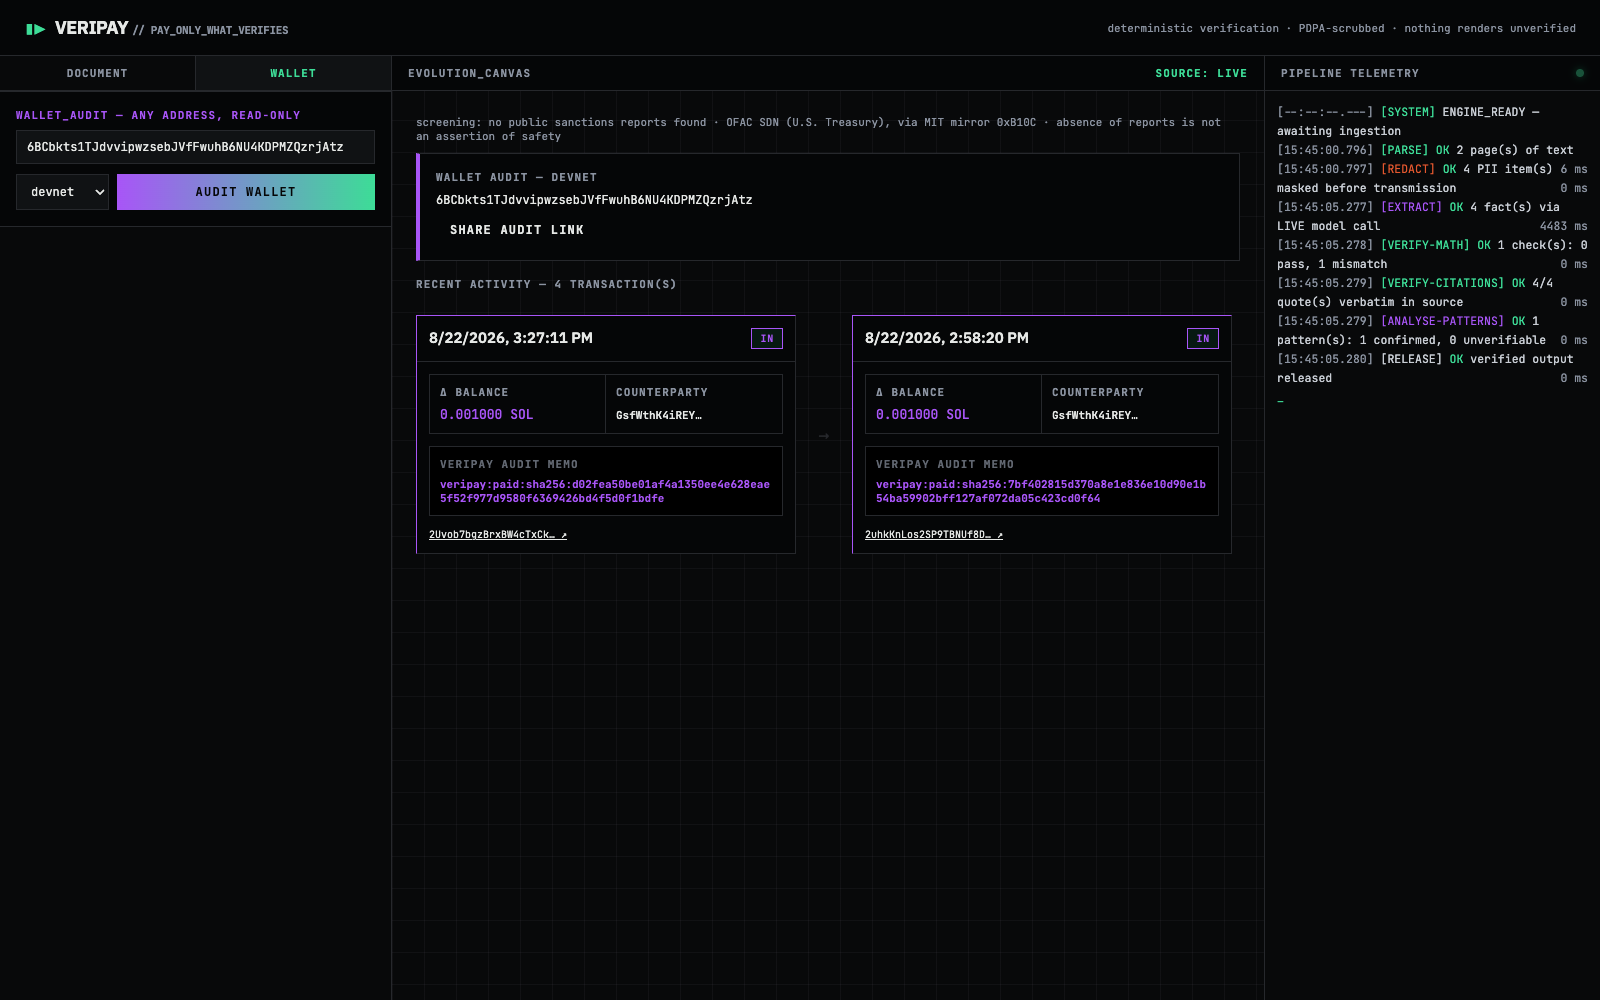
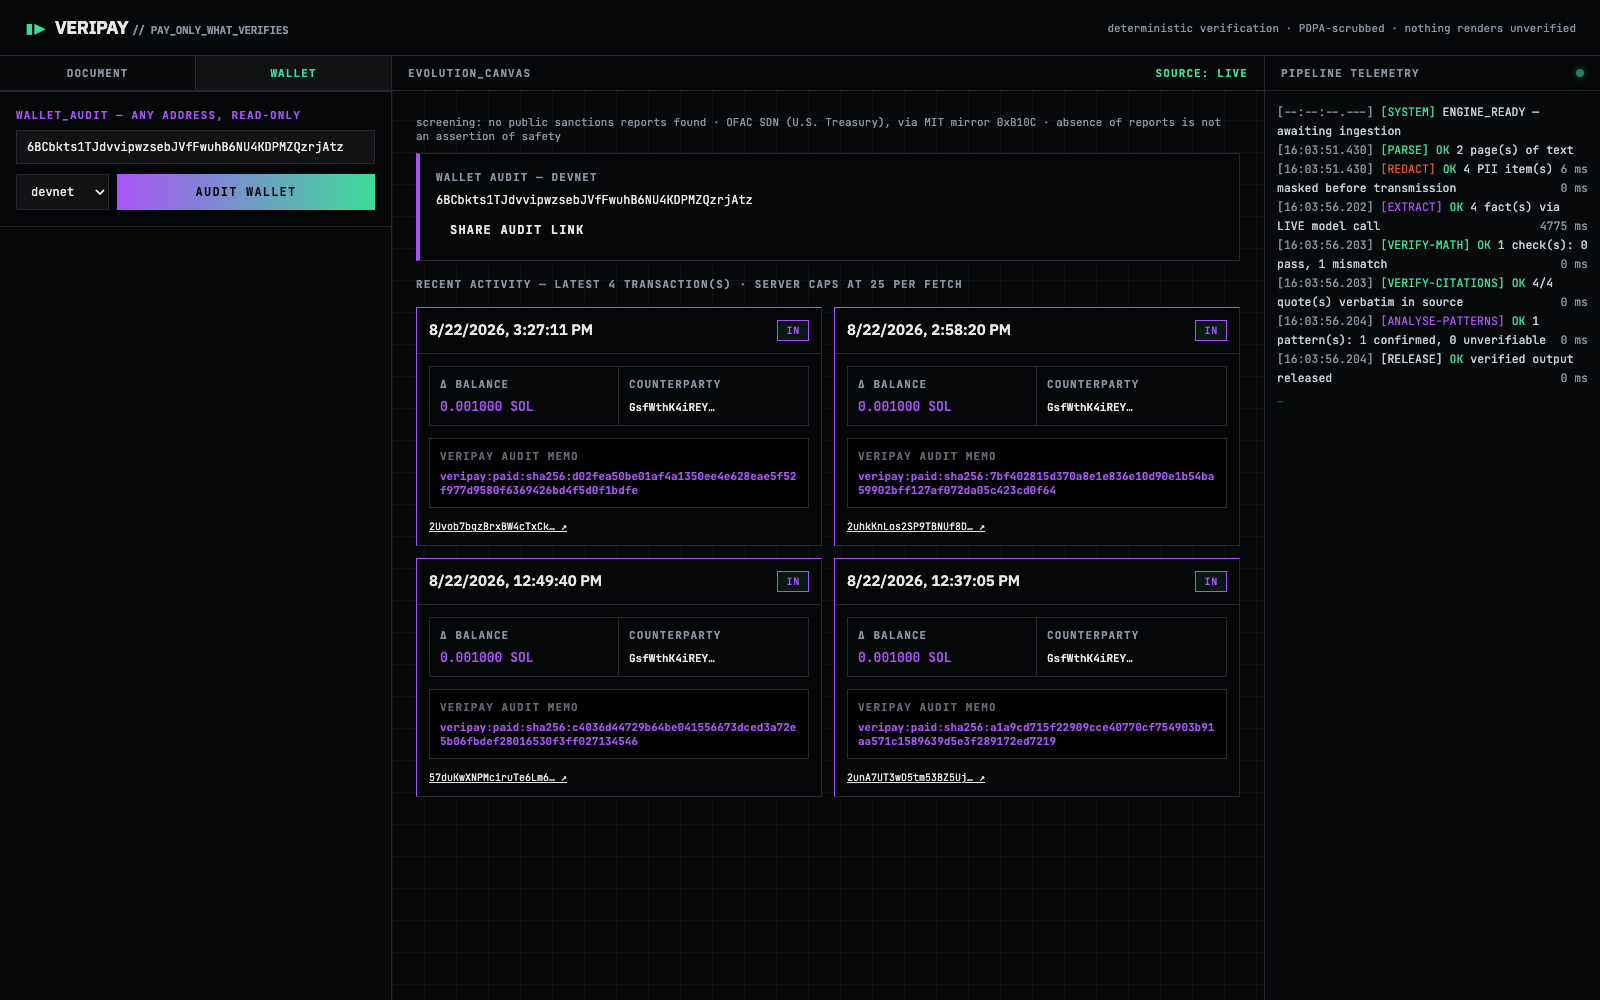
feat: dashboard port, wallet ledger UX, share button actually wired
Rebuilt on the dashboard-era base (KPI tiles with info affordances,
comparison chart, timings, shareable boards). Wallet activity becomes
a wrapping ledger grid — no horizontal strip, scales to the 25-tx
fetch cap which is now stated on screen. Two defects the tightened
specs exposed are fixed: renderWallet was defined twice since the
console rebuild, and the SHARE AUDIT LINK button had shipped as dead
markup since f7434ba (its wiring patch silently missed its anchor) —
wireShare now exists and is invoked from the renderer. Turns the red
specs green.

diff --git a/web/index.html b/web/index.html
@@ -109,6 +109,21 @@ main{flex:1;display:grid;grid-template-columns:392px minmax(0,1fr) 336px;min-hei
 .src .flag{color:var(--amber);font-family:var(--mono);font-size:11px;margin-top:6px}
 .src .pin{color:var(--teal);font-family:var(--mono);font-size:11px;margin-top:6px}
 h2.caps{color:var(--ink-faint);font-size:11px}
+.ledger{display:grid;grid-template-columns:repeat(auto-fill,minmax(320px,1fr));gap:12px}
+.ledger .card{width:auto;min-width:0}
+.dash{display:grid;grid-template-columns:repeat(12,1fr);gap:12px;align-items:start}
+.tile{border:1px solid var(--line);background:var(--bg-lowest);padding:14px;min-width:0}
+.tile>h2{margin-bottom:10px}
+.t12{grid-column:span 12}.t8{grid-column:span 8}.t6{grid-column:span 6}.t4{grid-column:span 4}
+@media (max-width:1400px){.t4{grid-column:span 6}.t8{grid-column:span 12}}
+.stat-row{display:grid;grid-template-columns:repeat(5,1fr);gap:12px}
+.stat-tile{border:1px solid var(--line);background:var(--bg-low);padding:12px 14px}
+.stat-tile .n{font-family:var(--mono);font-size:26px;font-weight:700;color:var(--teal)}
+.stat-tile .n.bad{color:var(--orange)} .stat-tile .n.dim{color:var(--ink-dim)}
+.stat-tile .l{font-family:var(--mono);font-size:10px;letter-spacing:.08em;color:var(--ink-faint);text-transform:uppercase;margin-top:2px}
+.stat-tile{position:relative}
+.info{position:absolute;top:8px;right:10px;width:15px;height:15px;border:1px solid var(--ink-faint);border-radius:50%;color:var(--ink-faint);font-family:var(--mono);font-size:10px;line-height:14px;text-align:center;cursor:help}
+.info:hover{color:var(--teal);border-color:var(--teal)}
 .section-gap{margin-bottom:16px}
 @media (prefers-reduced-motion: no-preference){
   @keyframes cardIn{from{opacity:0;transform:translateY(16px) scale(.97)}to{opacity:1;transform:none}}
@@ -160,7 +175,9 @@ h2.caps{color:var(--ink-faint);font-size:11px}
         </div>
   </div>
   <div class="right">
-    <div class="panel-head"><span class="caps" style="color:var(--ink-faint)">EVOLUTION_CANVAS</span><span class="caps" id="srcflag" style="color:var(--ink-faint)"></span></div>
+    <div class="panel-head"><span class="caps" style="color:var(--ink-faint)">EVOLUTION_CANVAS</span><span style="display:flex;gap:12px;align-items:center">
+      <button id="shareboard" class="caps" style="display:none;background:none;border:1px solid var(--info);color:var(--info);padding:4px 10px;cursor:pointer">SHARE BOARD</button>
+      <span class="caps" id="srcflag" style="color:var(--ink-faint)"></span></span></div>
     <div class="canvas-wrap" id="canvas">
       <div class="idle">
         <div class="big">AWAITING DATA INGESTION…</div>
@@ -181,7 +198,7 @@ h2.caps{color:var(--ink-faint);font-size:11px}
 const $=id=>document.getElementById(id);
 const esc=s=>String(s??"").replace(/[&<>"']/g,c=>({"&":"&amp;","<":"&lt;",">":"&gt;",'"':"&quot;","'":"&#39;"}[c]));
 const fmt=n=>n==null?"n/a":Number(n).toLocaleString("en-US",{maximumFractionDigits:2});
-let file=null,contrib=null;
+let file=null,contrib=null,lastEvents=[],lastResult=null;
 // shareable deep link: /?wallet=ADDR&network=devnet auto-runs the audit
 const _qp=new URLSearchParams(location.search);
 if(_qp.get("wallet")){
@@ -191,55 +208,50 @@ if(_qp.get("wallet")){
     $("wgo").click();
   });
 }
-$("wgo").onclick=async()=>{
-  const a=$("waddr").value.trim();if(!a)return;
-  $("wgo").disabled=true;
-  $("canvas").innerHTML=`<div class="idle"><div class="big">AUDITING ${esc(a.slice(0,8))}…</div><p>reading public chain data — no keys, no custody</p></div>`;
-  try{
-    const r=await fetch(`/api/wallet?address=${encodeURIComponent(a)}&network=${$("wnet").value}`);
-    if(!r.ok){throw new Error(await r.text());}
-    renderWallet(await r.json());
-  }catch(e){
-    $("canvas").innerHTML=`<div class="idle" style="border-color:var(--orange)"><div class="big" style="color:var(--orange)">AUDIT FAILED</div><p>${esc(e.message)}</p></div>`;
-  }
-  $("wgo").disabled=false;
-};
-function renderWallet(w){
-  const sx=w.sanctions||{};
-  let h="";
-  if(sx.listed){
-    h+=`<div class="banner" style="border-color:var(--orange);color:var(--orange);background:rgba(255,77,0,.08)">⚠ SANCTIONED — this address is ${esc(sx.note)} (${esc(sx.source)}). Attribution of a public record, not a character judgment.</div>`;
-  }else{
-    h+=`<div class="mono" style="font-size:11px;color:var(--ink-faint);margin-bottom:10px">screening: ${esc(sx.note||"no public sanctions reports found")} · ${esc(sx.source||"OFAC SDN")} · absence of reports is not an assertion of safety</div>`;
-  }
-  h+=`<div class="answer"><span class="caps">Wallet audit — ${esc(w.network)}${w.cached?" · cached":""}</span>
-    <div class="mono" style="font-size:12px;word-break:break-all;margin-top:4px">${esc(w.address)}</div>
-    <button class="exec" id="wshare" style="margin-top:8px;width:auto;padding:6px 14px;background:none;border:1px solid var(--info);color:var(--info)">SHARE AUDIT LINK</button>
-    <span id="wshareout" style="margin-left:10px"></span></div>`;
-  if(!w.txs.length){
-    h+=`<div class="idle"><div class="big">NO ACTIVITY</div><p>no transactions found for this address on ${esc(w.network)}</p></div>`;
-    $("canvas").innerHTML=h;wireShare(w);return;
-  }
-  h+=`<h2 class="caps section-gap">Recent activity — ${w.txs.length} transaction(s)</h2><div class="flow">`;
-  w.txs.forEach((t,i)=>{
-    const inb=t.delta>=0, col=t.err?"var(--orange)":(t.veripay?"var(--purple)":inb?"var(--teal)":"var(--ink-dim)");
-    h+=`<div class="card ${t.err?"bad":t.veripay?"":"ok"}" style="animation-delay:${i*110}ms;border-left-color:${col};border-top-color:${col}">
-      <div class="card-head"><h3>${t.time?new Date(t.time*1000).toLocaleString():"—"}</h3>
-        <span class="badge ${t.err?"bad":"ok"}" style="color:${col};border-color:${col}">${t.err?"FAILED":(inb?"IN":"OUT")}</span></div>
-      ${t.counterparty_sanctioned?`<div class="variance" style="margin:0 12px">⚠ COUNTERPARTY SANCTIONED — listed on OFAC SDN; money moved with a listed address</div>`:""}
-      <div class="card-body">
-        <div class="grid2"><div><span class="caps">Δ balance</span><span class="val" style="color:${col}">${(t.delta/1e9).toFixed(6)} SOL</span></div>
-        <div><span class="caps">Counterparty</span><span class="val" style="font-size:11px;word-break:break-all">${esc((t.counterparty||"—").slice(0,12))}…</span></div></div>
-        ${t.memo?`<div class="eq"><span class="caps">${t.veripay?"VERIPAY AUDIT MEMO":"MEMO"}</span><div class="expr" style="font-size:11px;word-break:break-all;color:${t.veripay?"var(--purple)":"var(--ink-dim)"}">${esc(t.memo)}</div></div>`:""}
-        <a class="mono" style="font-size:10px;color:var(--info)" target="_blank"
-           href="https://explorer.solana.com/tx/${esc(t.signature)}?cluster=${w.network==="mainnet"?"mainnet-beta":"devnet"}">${esc(t.signature.slice(0,20))}… ↗</a>
-      </div></div>`;
-    if(i<w.txs.length-1)h+=`<div class="arrow" style="animation-delay:${i*110+80}ms">→</div>`;
-  });
-  h+=`</div>`;
-  $("canvas").innerHTML=h;
+
+// ── Shareable board: the whole released result rides the URL FRAGMENT —
+// fragments never reach a server, so sharing distributes the board, not
+// the document. Integrity: a client-side sha256 of the exact payload,
+// plus the audit_log_root for on-chain verification.
+const b64u=b=>btoa(String.fromCharCode(...new Uint8Array(b))).replace(/\+/g,"-").replace(/\//g,"_").replace(/=+$/,"");
+const unb64u=s=>Uint8Array.from(atob(s.replace(/-/g,"+").replace(/_/g,"/")),c=>c.charCodeAt(0));
+async function gz(bytes,mode){
+  const cs=mode==="c"?new CompressionStream("gzip"):new DecompressionStream("gzip");
+  const out=new Response(new Blob([bytes]).stream().pipeThrough(cs));
+  return new Uint8Array(await out.arrayBuffer());
 }
-fetch("/api/contribution").then(r=>r.status===200?r.json():null).then(j=>{contrib=j;}).catch(()=>{});
+async function shareBoard(){
+  if(!lastResult)return;
+  const raw=new TextEncoder().encode(JSON.stringify(lastResult));
+  const packed=b64u(await gz(raw,"c"));
+  const url=`${location.origin}${location.pathname}#board=${packed}`;
+  const dig=await crypto.subtle.digest("SHA-256",raw);
+  const hex=[...new Uint8Array(dig)].map(x=>x.toString(16).padStart(2,"0")).join("");
+  try{await navigator.clipboard.writeText(url);}catch(e){}
+  const b=$("shareboard");
+  b.textContent=`COPIED · ${hex.slice(0,12)}`;
+  setTimeout(()=>{b.textContent="SHARE BOARD";},4000);
+}
+async function openSharedBoard(){
+  const m=location.hash.match(/#board=([A-Za-z0-9_-]+)/);
+  if(!m)return false;
+  try{
+    const raw=await gz(unb64u(m[1]),"d");
+    const r=JSON.parse(new TextDecoder().decode(raw));
+    const dig=await crypto.subtle.digest("SHA-256",raw);
+    const hex=[...new Uint8Array(dig)].map(x=>x.toString(16).padStart(2,"0")).join("");
+    lastResult=r;lastEvents=[];
+    render(r);
+    $("canvas").insertAdjacentHTML("afterbegin",
+      `<div class="banner" style="border-color:var(--info);color:var(--info);background:rgba(61,220,151,.05)">SHARED BOARD — rendered read-only from the link, nothing fetched from a server · link digest sha256:${hex.slice(0,16)}… · audit root ${esc((r.audit_log_root||"").slice(0,16))}… (verifiable on-chain where notarized)</div>`);
+    $("srcflag").textContent="SOURCE: SHARED LINK";
+    $("srcflag").style.color="var(--info)";
+  }catch(e){
+    $("canvas").innerHTML=`<div class="idle" style="border-color:var(--orange)"><div class="big" style="color:var(--orange)">BAD BOARD LINK</div><p>${esc(String(e))}</p></div>`;
+  }
+  return true;
+}
+addEventListener("DOMContentLoaded",()=>{openSharedBoard();});
 
 $("drop").onclick=()=>$("file").click();
 $("drop").ondragover=e=>e.preventDefault();
@@ -254,6 +266,7 @@ function log(stage,status,detail,ms){
   const cur=$("log").querySelector(".cursor");$("log").insertBefore(line,cur);$("log").scrollTop=$("log").scrollHeight;
 }
 $("exec").onclick=async()=>{
+  lastEvents=[];
   if(!file)return;
   $("exec").disabled=true;
   $("canvas").innerHTML=`<div class="idle"><div class="big">PIPELINE RUNNING…</div><p>verification gate holds all output until release</p></div>`;
@@ -270,13 +283,16 @@ $("exec").onclick=async()=>{
         const line=buf.slice(0,i).trim();buf=buf.slice(i+1);
         if(!line)continue;
         const ev=JSON.parse(line);
+        lastEvents.push(ev);
         if(ev.status!=="running")log(ev.stage,ev.status,ev.detail,ev.elapsed_ms);
         if(ev.stage==="release")result=ev.result;
       }
     }
   }catch(err){log("system","fail",String(err));}
   $("exec").disabled=false;
-  if(result)render(result);
+  if(result){lastResult=result;render(result);
+    $("shareboard").style.display="";
+    $("shareboard").onclick=shareBoard;}
 };
 // ── Renderer registry (cityos pattern): type -> (gate, render). A gate
 // checks SHAPE, not presence — malformed data degrades to a plain table
@@ -336,7 +352,56 @@ function renderChart(c){
   if(!k.gate(c))return `<div class="answer" style="margin-bottom:12px;padding:12px 14px">${head}${renderFallbackTable(c.kind,c.points)}</div>`;
   return `<div class="answer" style="margin-bottom:12px;padding:12px 14px">${head}${k.render(c)}</div>`;
 }
+function T(span,inner){return inner?`<div class="tile t${span}">${inner}</div>`:"";}
 const RENDERERS={
+  kpis:{gate:r=>r.summary&&typeof r.summary==="object",render:r=>{
+    const s=r.summary;
+    const kpi_info={
+      "facts extracted":"Figures the model pulled from the document that survived cleaning — each must be numeric and carry a citation.",
+      "checks verified":"Arithmetic claims recomputed in Python that matched the figure the DOCUMENT states (never a number the model computed itself).",
+      "mismatches":"Recomputed arithmetic that disagrees with the stated figure — the exact discrepancies a manual review is meant to catch.",
+      "PII masked":"Personal identifiers redacted locally before any text reached the model: NRIC (date-validated), emails, phones, names via title/patronymic/cue, PDF author metadata.",
+      "evidenced risks":"Risks the model flagged that cite verified facts as evidence — an uncited risk is discarded, never shown.",
+    };
+    const cells=[
+      [s.facts_extracted,"facts extracted",""],
+      [s.checks_passed,"checks verified",""],
+      [s.checks_failed,"mismatches",s.checks_failed?"bad":"dim"],
+      [r.redaction_count,"PII masked","dim"],
+      [(r.risks||[]).length,"evidenced risks",(r.risks||[]).length?"bad":"dim"],
+    ];
+    return `<div class="stat-row t12" style="grid-column:span 12">`+cells.map(([n,l,c])=>
+      `<div class="stat-tile"><span class="info" title="${esc(kpi_info[l]||"")}">i</span><div class="n ${c}">${n}</div><div class="l">${l}</div></div>`).join("")+`</div>`;
+  }},
+  check_chart:{gate:r=>Array.isArray(r.checks)&&r.checks.some(c=>c.expected!=null&&c.actual!=null),render:r=>{
+    const rows=r.checks.filter(c=>c.expected!=null&&c.actual!=null);
+    const max=Math.max(...rows.flatMap(c=>[c.expected,c.actual]))||1;
+    const W=640,BH=16,GRP=44;let y=0,svg="";
+    rows.forEach(c=>{
+      const we=Math.max(2,(c.expected/max)*(W-330)),wa=Math.max(2,(c.actual/max)*(W-330));
+      const bad=!c.passed&&!c.error;
+      svg+=`<text x="0" y="${y+12}" fill="var(--ink-dim)" font-size="10" font-family="var(--mono)">${esc(c.description.slice(0,26))}</text>
+        <rect x="180" y="${y+2}" width="${we}" height="${BH-6}" rx="3" fill="var(--ink-faint)"/>
+        <rect x="180" y="${y+BH-2}" width="${wa}" height="${BH-6}" rx="3" fill="${bad?"var(--orange)":"var(--teal)"}"/>
+        <text x="${185+Math.max(we,wa)}" y="${y+BH+4}" fill="${bad?"var(--orange)":"var(--ink)"}" font-size="10" font-family="var(--mono)">${bad?"Δ "+fmt(c.actual-c.expected):"match"}</text>`;
+      y+=GRP;
+    });
+    return T(6,`<h2 class="caps">Reported vs Calculated — grey stated, colored recomputed</h2><svg viewBox="0 0 ${W} ${y}" style="width:100%">${svg}</svg>`).replace('class="tile t6"','class="tile t6"');
+  }},
+  timings:{gate:()=>Array.isArray(lastEvents),render:()=>{
+    const done=lastEvents.filter(e=>e.status==="ok"||e.status==="fail");
+    if(!done.length)return "";
+    const max=Math.max(...done.map(e=>e.elapsed_ms||0))||1;
+    let y=0,svg="";
+    done.forEach(e=>{
+      const w=Math.max(2,((e.elapsed_ms||0)/max)*300);
+      svg+=`<text x="0" y="${y+11}" fill="var(--ink-dim)" font-size="10" font-family="var(--mono)">${esc(e.stage)}</text>
+        <rect x="130" y="${y+2}" width="${w}" height="10" rx="3" fill="${e.status==="fail"?"var(--orange)":"var(--purple)"}"/>
+        <text x="${136+w}" y="${y+11}" fill="var(--ink-faint)" font-size="10" font-family="var(--mono)">${e.elapsed_ms??0} ms</text>`;
+      y+=20;
+    });
+    return T(6,`<h2 class="caps">Stage timings — measured, this run</h2><svg viewBox="0 0 480 ${y}" style="width:100%">${svg}</svg>`);
+  }},
   charts:{gate:r=>r.charts==null||Array.isArray(r.charts),render:r=>{
     if(!r.charts||!r.charts.length)return "";
     let h=`<h2 class="caps section-gap">Visualizations — the model chose the form, verified facts supply the data</h2>`;
@@ -437,7 +502,8 @@ const RENDERERS={
   h+=`</div></div>`;
   return h;}},
 };
-const ARTIFACT_ORDER=["insights","charts","patterns","risks","checks","sources"];
+const ARTIFACT_ORDER=["kpis","insights","charts","check_chart","patterns","risks","timings","checks","sources"];
+const TILE_SPAN={insights:8,charts:6,patterns:4,risks:4,checks:12,sources:12};
 function renderArtifact(type,r){
   const reg=RENDERERS[type];
   if(!reg)return `<div class="banner" style="border-color:var(--orange);color:var(--orange)">Unregistered artifact type: ${esc(type)}</div>`;
@@ -475,9 +541,9 @@ function renderWallet(w){
     <span id="wshareout" style="margin-left:10px"></span></div>`;
   if(!w.txs.length){
     h+=`<div class="idle"><div class="big">NO ACTIVITY</div><p>no transactions found for this address on ${esc(w.network)}</p></div>`;
-    $("canvas").innerHTML=h;wireShare(w);return;
+    $("canvas").innerHTML=h;wireShare(w);wireShare(w);return;
   }
-  h+=`<h2 class="caps section-gap">Recent activity — ${w.txs.length} transaction(s)</h2><div class="flow">`;
+  h+=`<h2 class="caps section-gap">Recent activity — latest ${w.txs.length} transaction(s) · server caps at 25 per fetch</h2><div class="ledger">`;
   w.txs.forEach((t,i)=>{
     const inb=t.delta>=0, col=t.err?"var(--orange)":(t.veripay?"var(--purple)":inb?"var(--teal)":"var(--ink-dim)");
     h+=`<div class="card ${t.err?"bad":t.veripay?"":"ok"}" style="animation-delay:${i*110}ms;border-left-color:${col};border-top-color:${col}">
@@ -491,10 +557,9 @@ function renderWallet(w){
         <a class="mono" style="font-size:10px;color:var(--info)" target="_blank"
            href="https://explorer.solana.com/tx/${esc(t.signature)}?cluster=${w.network==="mainnet"?"mainnet-beta":"devnet"}">${esc(t.signature.slice(0,20))}… ↗</a>
       </div></div>`;
-    if(i<w.txs.length-1)h+=`<div class="arrow" style="animation-delay:${i*110+80}ms">→</div>`;
   });
   h+=`</div>`;
-  $("canvas").innerHTML=h;
+  $("canvas").innerHTML=h;wireShare(w);
 }
 fetch("/api/contribution").then(r=>r.status===200?r.json():null).then(j=>{contrib=j;}).catch(()=>{});
 $("drop").onclick=()=>$("file").click();
@@ -534,16 +599,34 @@ $("exec").onclick=async()=>{
   $("exec").disabled=false;
   if(result)render(result);
 };
+function wireShare(w){
+  const b=document.getElementById("wshare");if(!b)return;
+  b.onclick=async()=>{
+    const r=await fetch(`/api/qr?address=${encodeURIComponent(w.address)}&network=${w.network}`);
+    if(!r.ok)return;
+    const j=await r.json();
+    try{await navigator.clipboard.writeText(j.url);}catch(e){}
+    document.getElementById("wshareout").innerHTML=
+      `<img src="${j.qr}" style="width:120px;height:120px;border:2px solid var(--info);background:#000;padding:3px;vertical-align:middle"> <span class="mono" style="font-size:10px;color:var(--ink-faint)">link copied — opens the audit on any device that can reach this server</span>`;
+  };
+}
 function render(r){
   if(r.error){$("canvas").innerHTML=`<div class="idle" style="border-color:var(--orange)"><div class="big" style="color:var(--orange)">PIPELINE HALTED</div><p>${esc(r.error)}</p></div>`;return;}
   $("srcflag").textContent=r.fallback_used?"SOURCE: CACHED":"SOURCE: LIVE";
   $("srcflag").style.color=r.fallback_used?"var(--amber)":"var(--teal)";
+  lastEvents=lastEvents.slice(-40);
   let h="";
   if(r.fallback_used)h+=`<div class="banner">⚠ CACHED — the live model call failed; the demo fallback answered. Verification below still ran for real against these facts.</div>`;
   h+=`<div class="answer"><span class="caps">Analysis</span><div class="body">${esc(r.answer)}</div>`;
   if(r.recommendation)h+=`<div class="rec"><b>RECOMMENDATION »</b> ${esc(r.recommendation)}</div>`;
   h+=`</div>`;
-  ARTIFACT_ORDER.forEach(t=>{h+=renderArtifact(t,r);});
+  h+=`<div class="dash">`;
+  ARTIFACT_ORDER.forEach(t=>{
+    const out=renderArtifact(t,r);
+    if(!out)return;
+    h+=(t in TILE_SPAN)?T(TILE_SPAN[t],out):out;
+  });
+  h+=`</div>`;
   $("canvas").innerHTML=h;
   if(!matchMedia("(prefers-reduced-motion: reduce)").matches){
     document.querySelectorAll("#canvas .val[data-n]").forEach(el=>{

diff --git a/scripts/screenshots.py b/scripts/screenshots.py
@@ -40,7 +40,7 @@ try:
             page.click("#tab-wallet")
             page.fill("#waddr", os.environ["SHOT_WALLET"])
             page.click("#wgo")
-            page.wait_for_selector(".flow .card", timeout=30000)
+            page.wait_for_selector(".ledger .card", timeout=30000)
             page.wait_for_timeout(1600)
             page.screenshot(path=f"{out}/wallet_audit.png", full_page=True)
             print("captured: wallet_audit.png")
